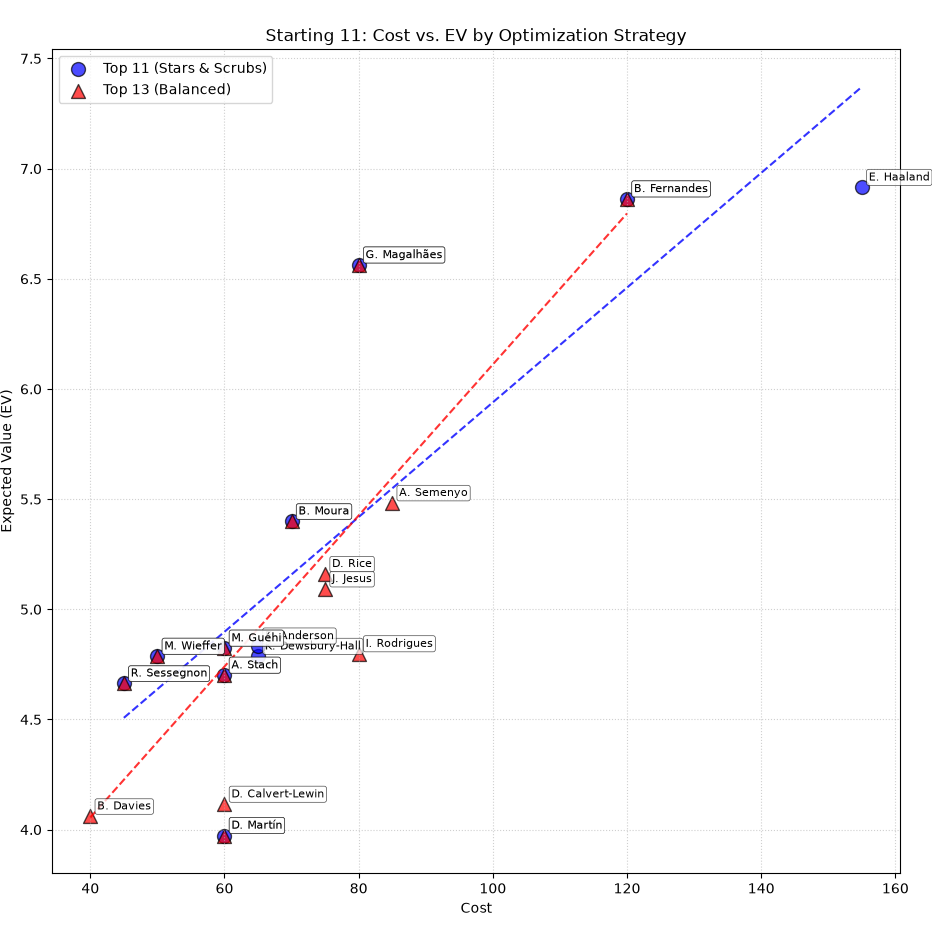
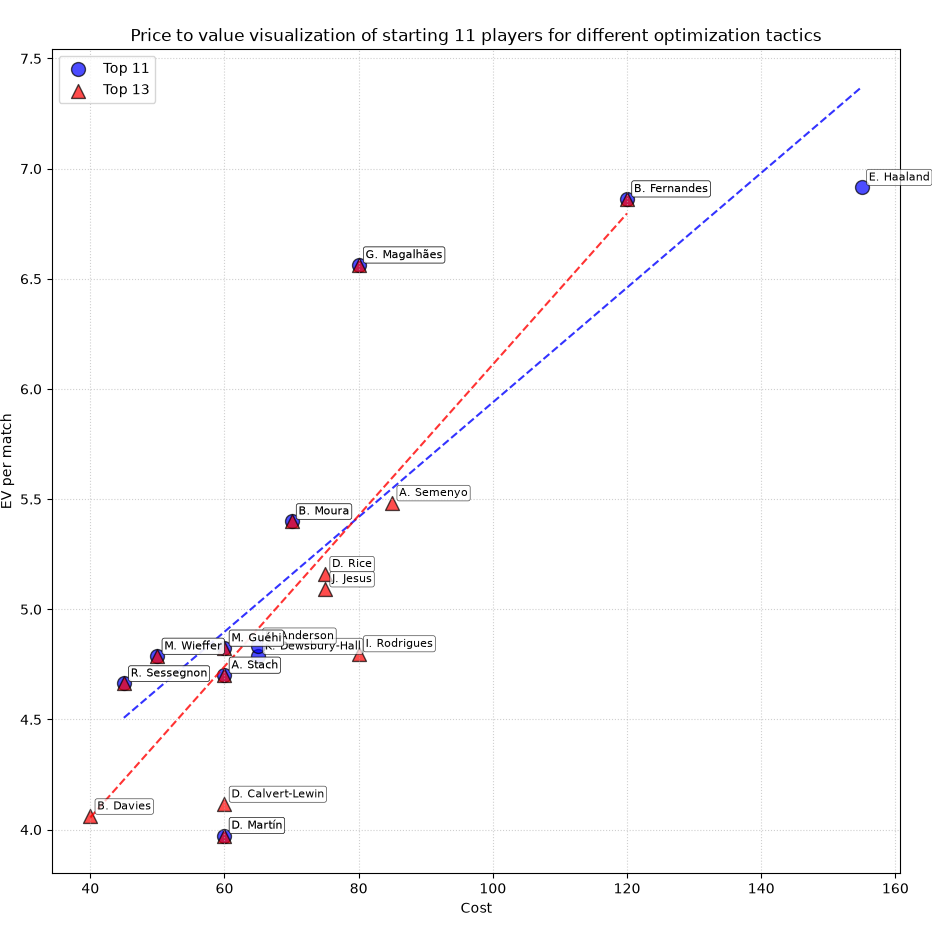
minor change

Changed region(s): [[0.1556, 0.0305, 0.8712, 0.1218], [0.0, 0.4265, 0.0311, 0.5483]]

diff --git a/data/graphs/11v13.py b/data/graphs/11v13.py
@@ -4,8 +4,8 @@ import numpy as np
 import os
 
 csv_files = {
-    "Top 11 (Stars & Scrubs)": ("../11.csv", "blue", "o"),
-    "Top 13 (Balanced)": ("../13.csv", "red", "^")
+    "Top 11": ("../11.csv", "blue", "o"),
+    "Top 13": ("../13.csv", "red", "^")
 }
 
 plt.figure(figsize=(12, 7))
@@ -30,8 +30,8 @@ for label, (filepath, color, marker) in csv_files.items():
             plt.plot(x_vals, m * x_vals + b, color=color, linestyle='--', alpha=0.8)
 
 plt.xlabel("Cost")
-plt.ylabel("Expected Value (EV)")
-plt.title("Starting 11: Cost vs. EV by Optimization Strategy")
+plt.ylabel("EV per match")
+plt.title("Price to value visualization of starting 11 players for different optimization tactics")
 plt.grid(True, linestyle=':', alpha=0.6)
 plt.legend()
 plt.tight_layout()
